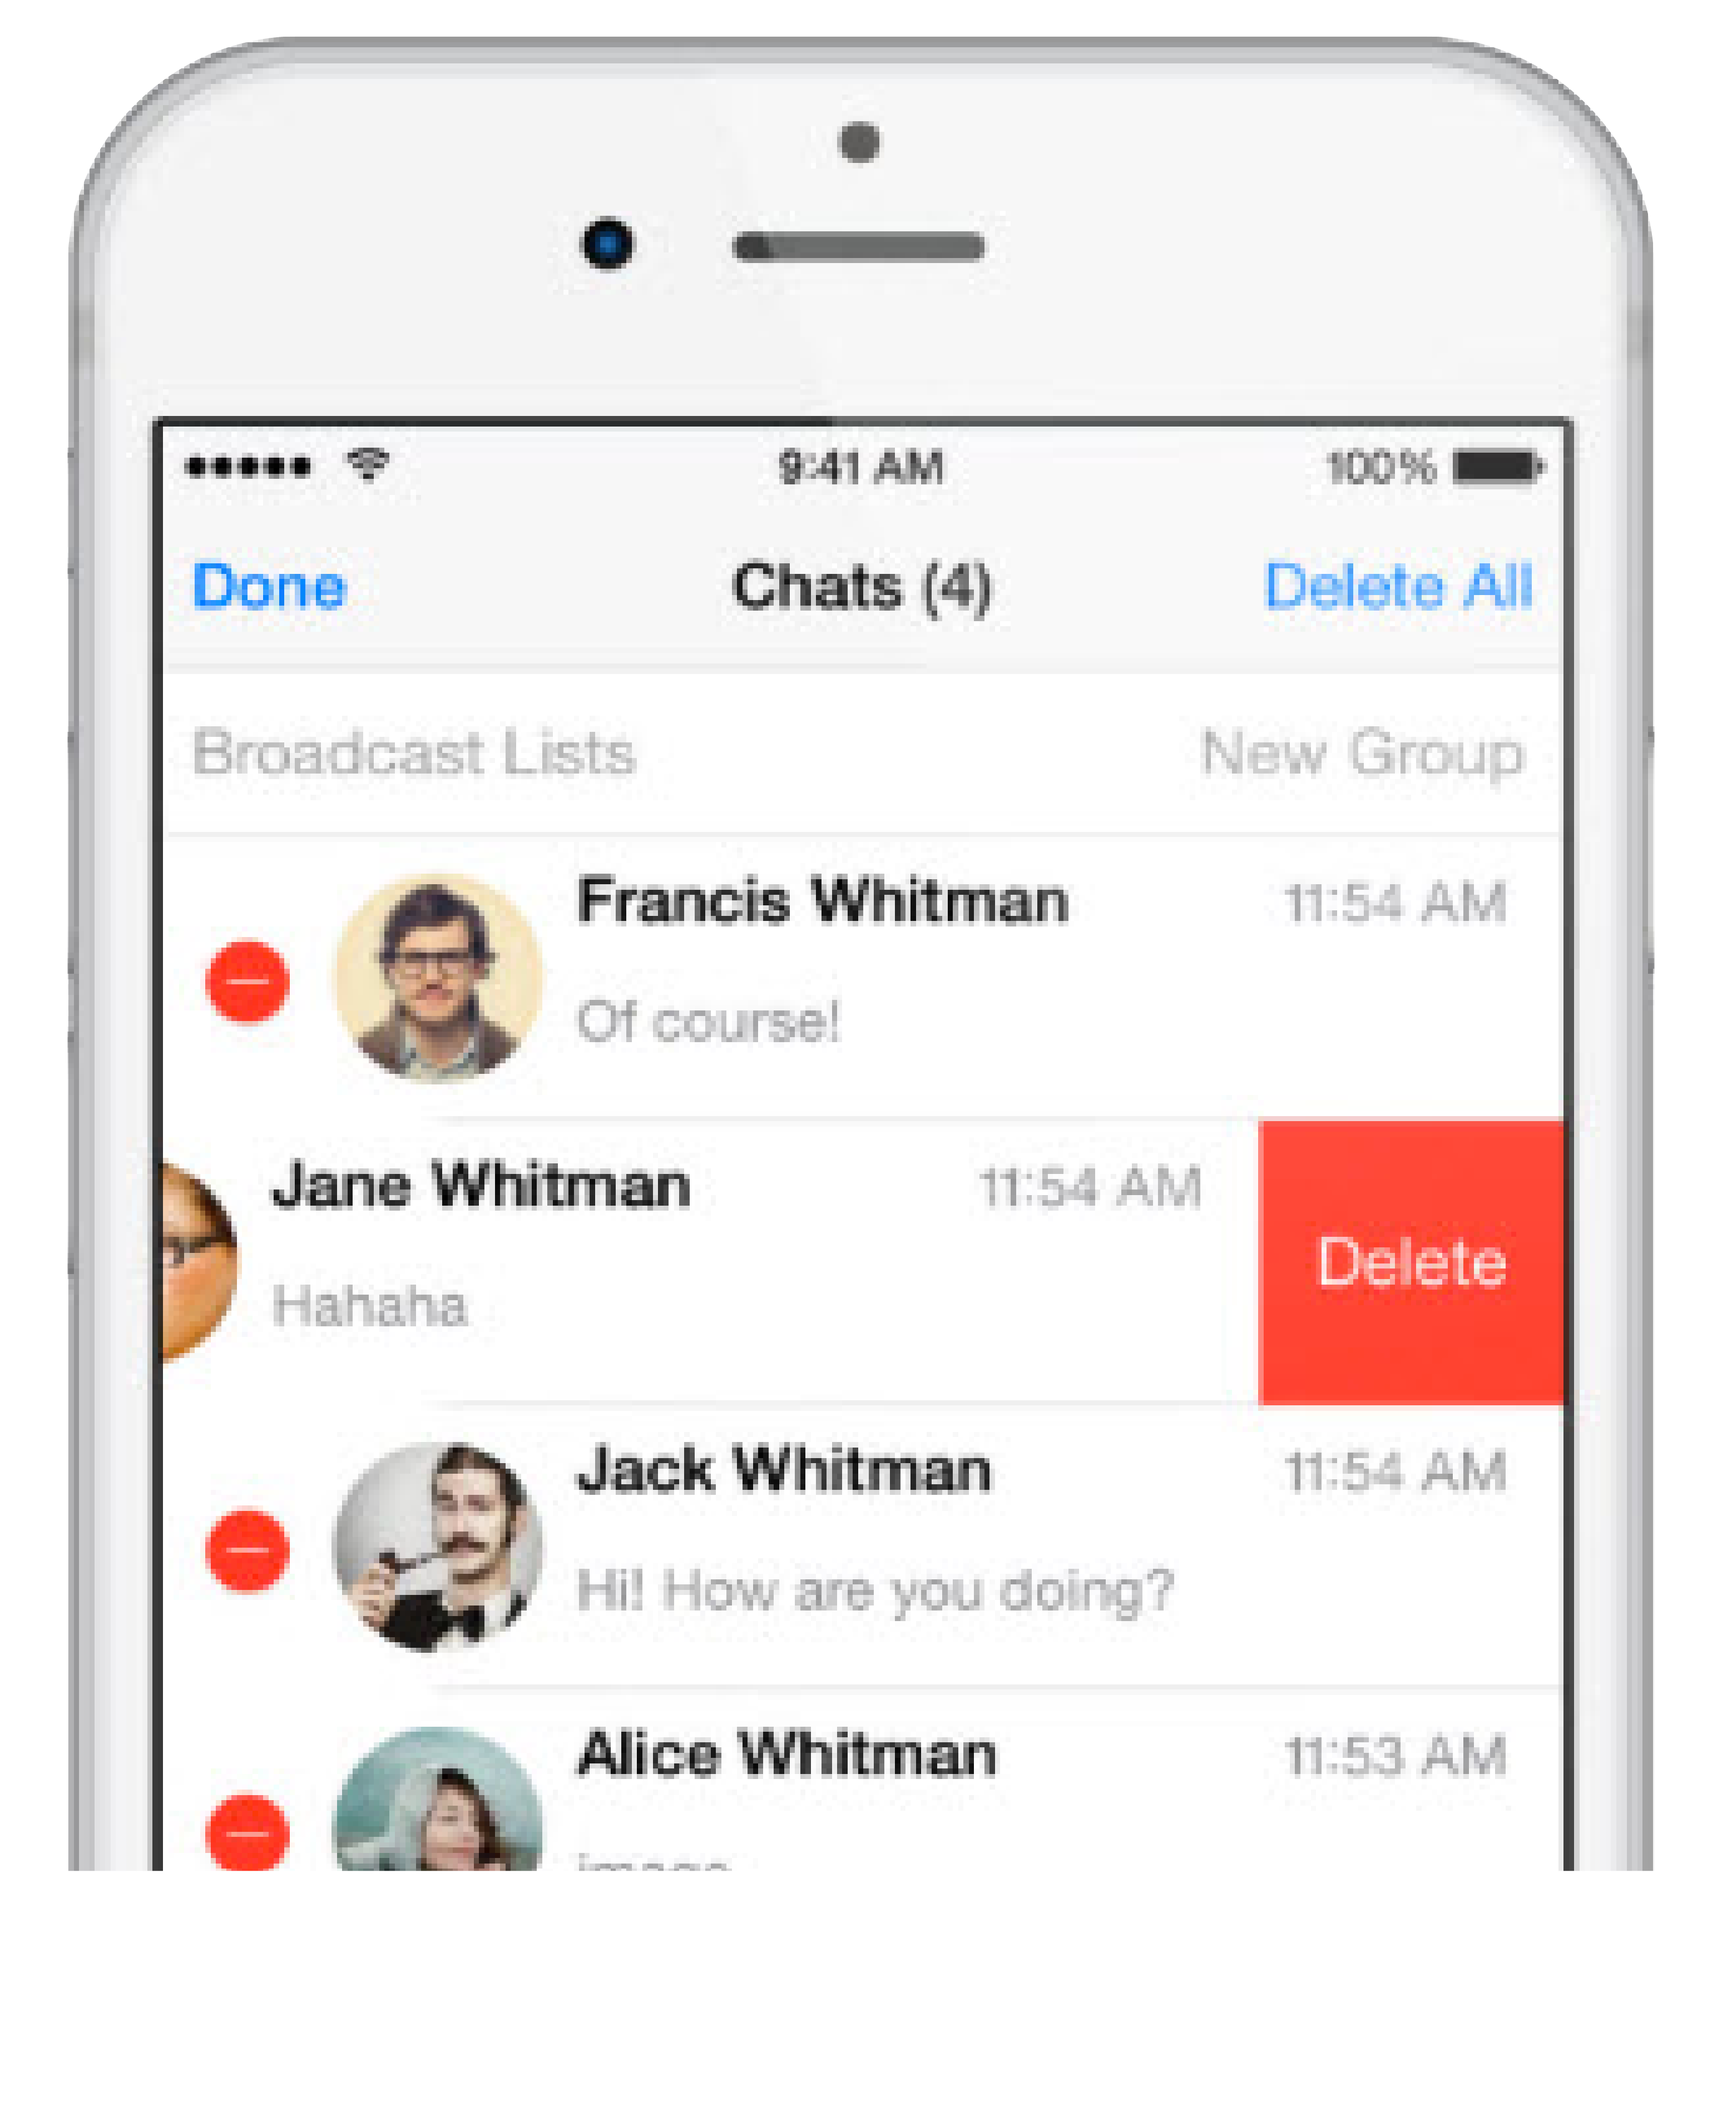
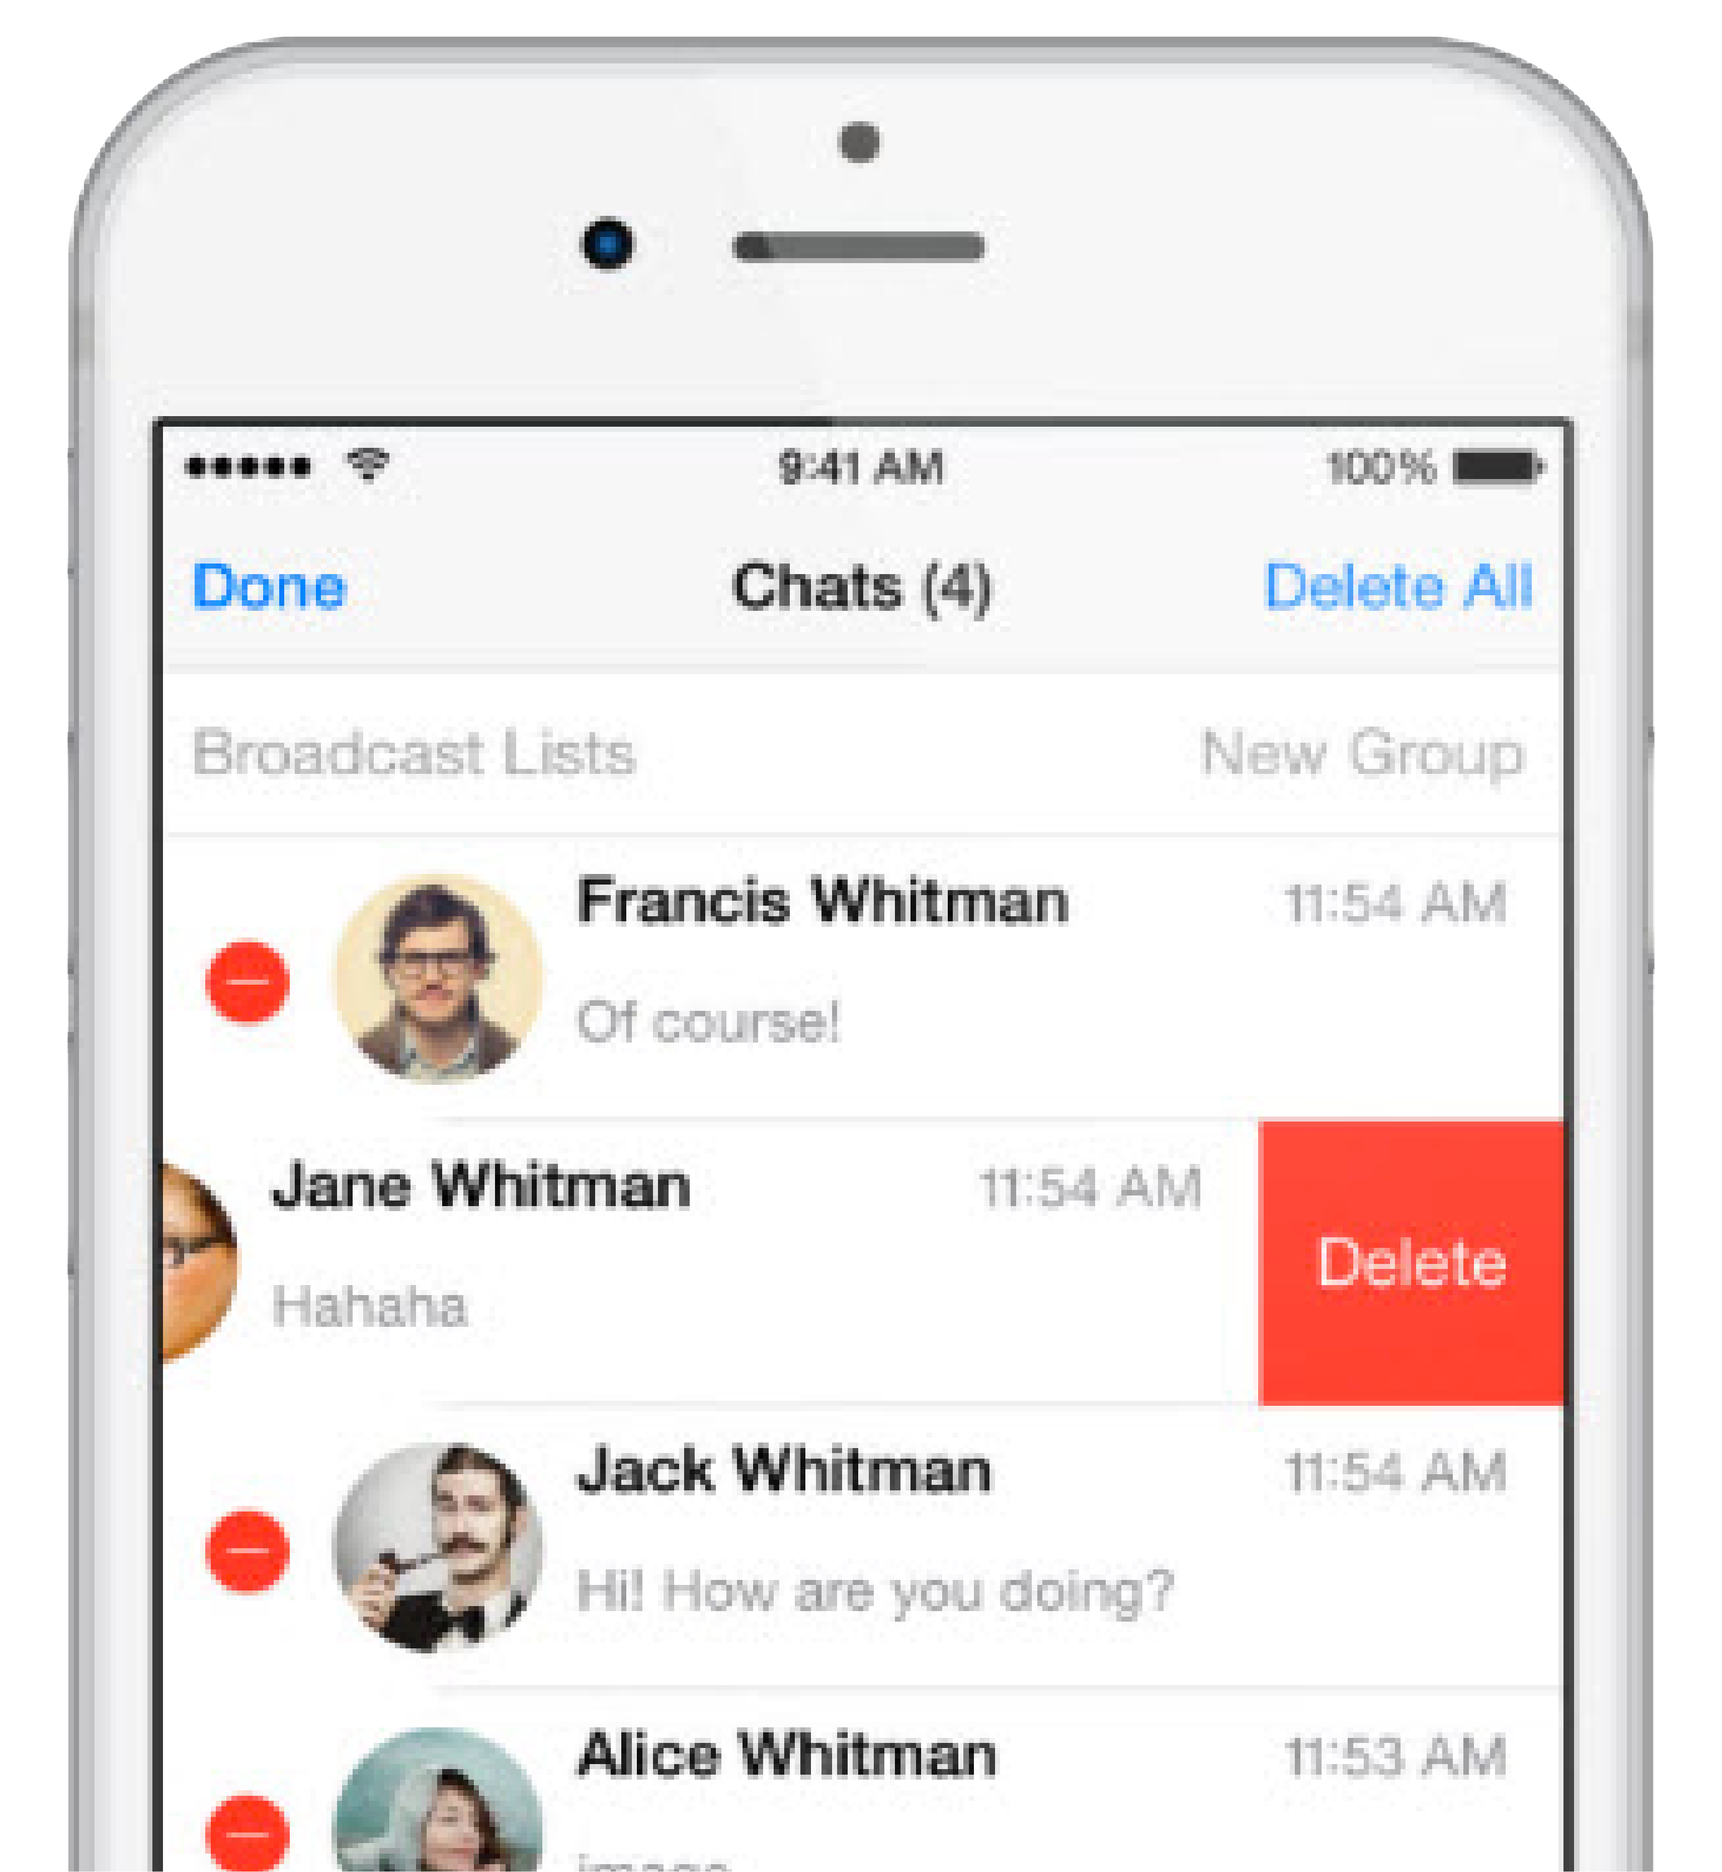
Fix phone image on chat section

diff --git a/css/style.css b/css/style.css
@@ -114,7 +114,7 @@ text-align: center;
 	height: 40px !important;
 }
 .chat{
-	padding: 3em 0;
+	padding-top: 3em;
 	color: #ffffff;
 	background-color: #101d2c;
 	padding-top: 2em;
@@ -122,7 +122,7 @@ text-align: center;
 
 .chat h1{
 	font-family: "MontserratExtraBold";
-	margin-top: 5.2em;
+	margin-top: 4em;
 }
 .chat p{
 	font-family: "MontserratLight";
@@ -130,7 +130,6 @@ text-align: center;
 }
 .chat img{
 	width: 70%;
-	position: absolute;
 }
 @media only screen and (max-width: 992px){
 	.intro-text{
@@ -174,5 +173,13 @@ text-align: center;
 .seamless .row .option{
 	/*margin: 2em auto auto auto; */
 	text-align: center;
+}
+
+.chat{
+	text-align: center;
+}
+
+.chat .col-md-6:first-child{
+	padding-bottom: 2em;
 }
 }
